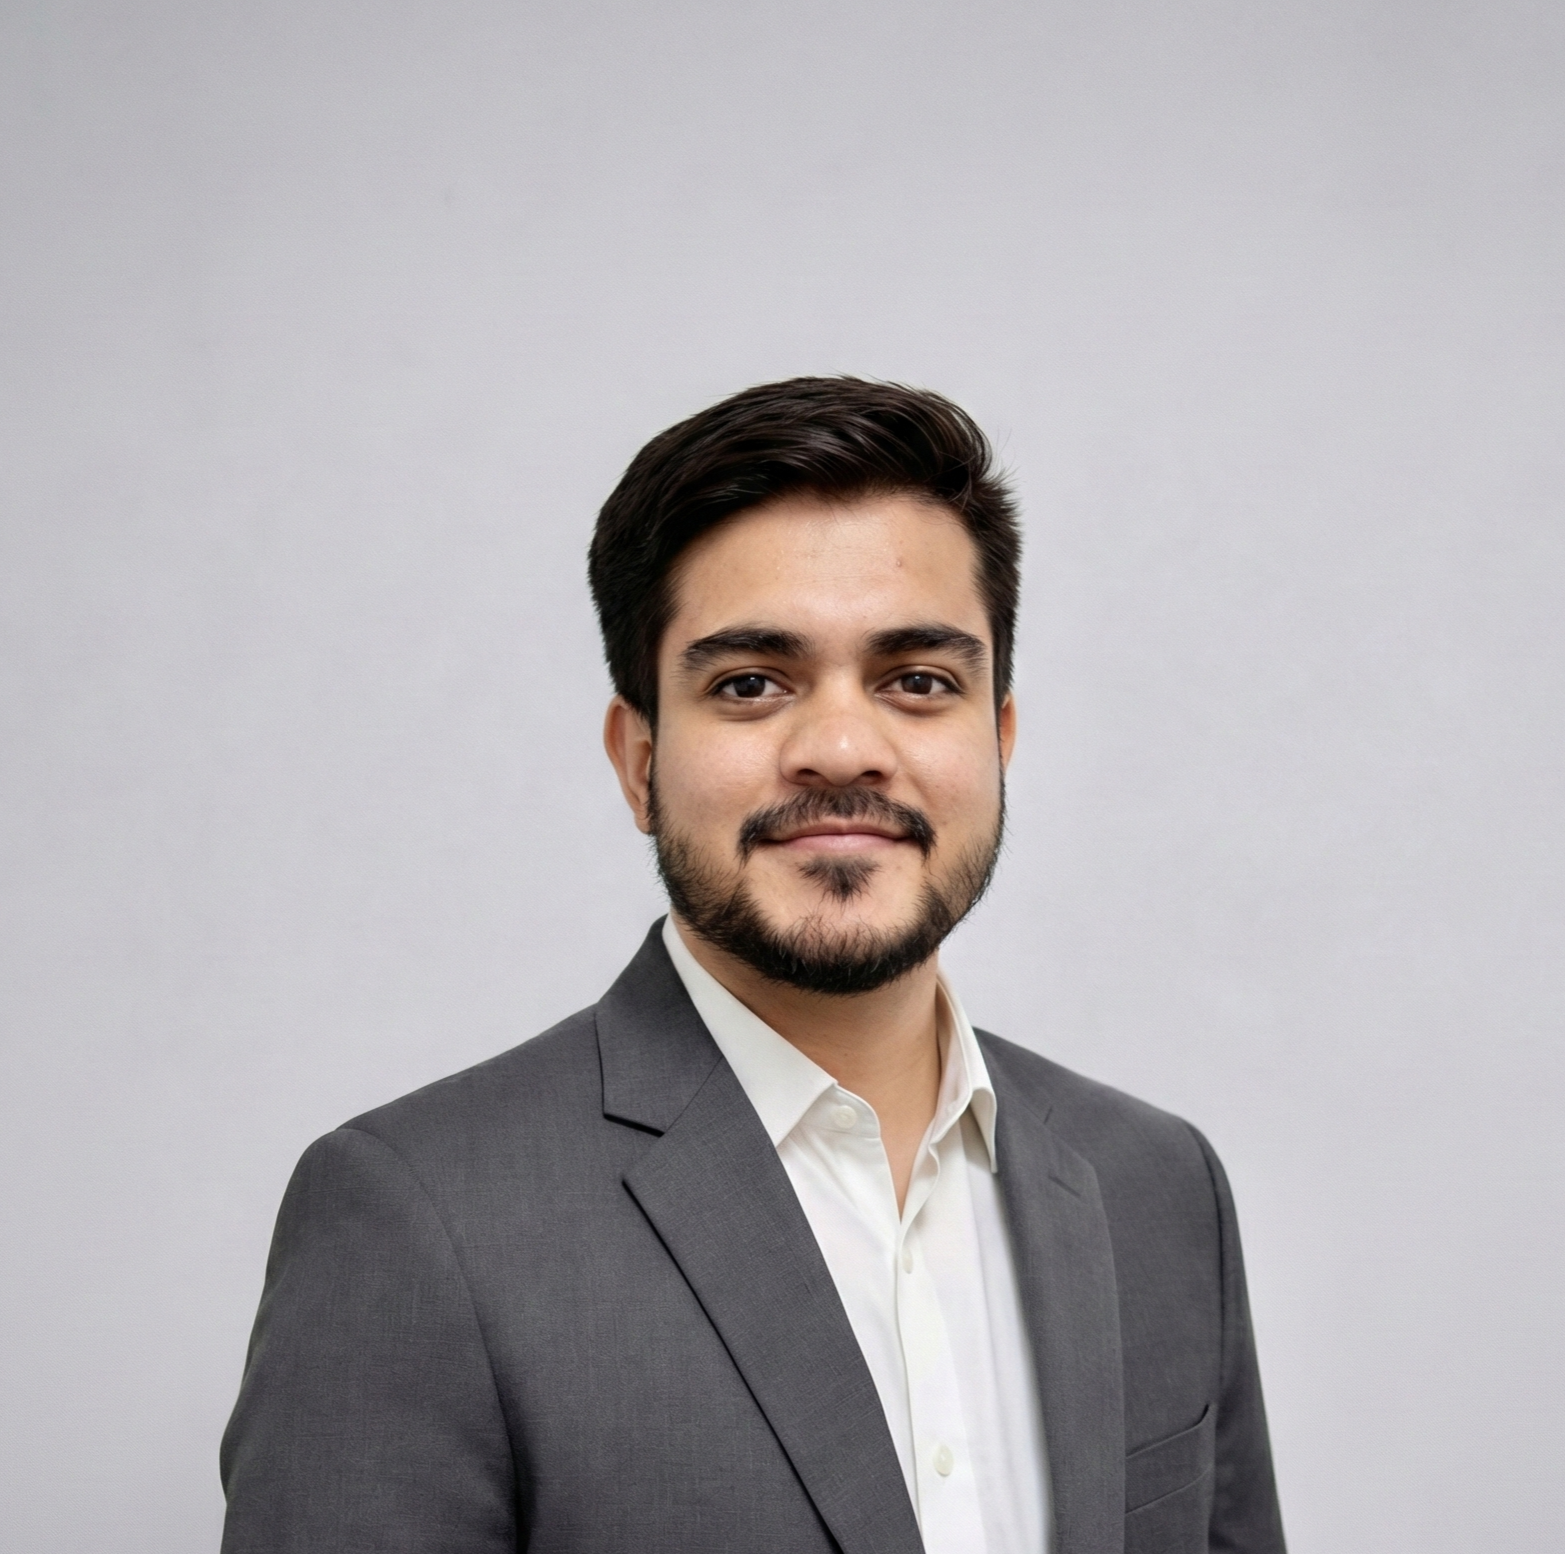
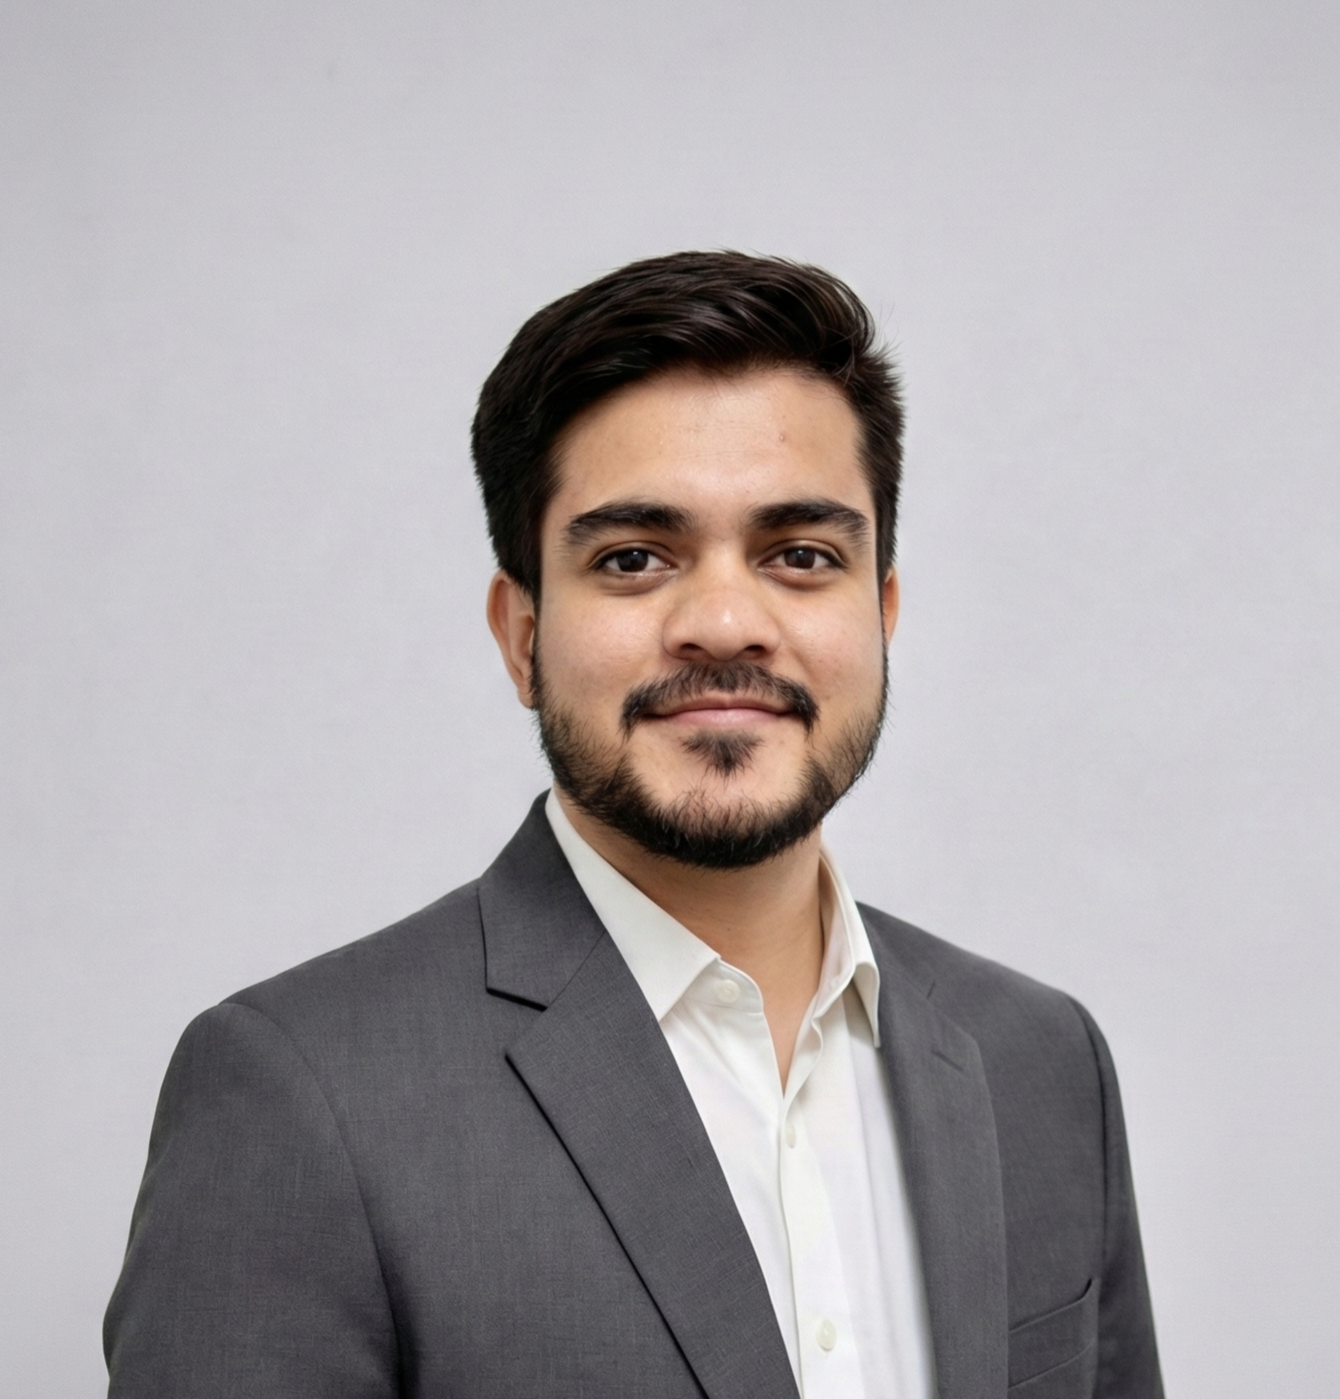
Changed piyush sir's photo

diff --git a/deptweb/src/components/home/faculty.jsx b/deptweb/src/components/home/faculty.jsx
@@ -21,7 +21,7 @@ export default function Faculty() {
         { id: 9, name: "Dr. Kiran", position: "Associate Professor", branch: "CSE(AI)", degree: "Ph.D.", university: "SRM University, Sonepat", image: "/cse-ai-assets/faculty/DR. KIRAN.JPG" },
         { id: 10, name: "Mr. Sahil Bhatia", position: "Assistant Professor & Program Head (First Year)", branch: "CSE(AI)", degree: "M.Tech.", university: "IIT - Jodhpur", image: "/cse-ai-assets/faculty/MR. SAHIL BHATIA.JPG" },
         { id: 11, name: "Mr. Mayank Lakhotia", position: "Assistant Professor & Program Head (First Year)", branch: "CSE(AI&ML)", degree: "M.Tech.", university: "NSUT, New Delhi", image: "/cse-ai-assets/images/Mayank-Lakhotia.png" },
-        { id: 12, name: "Mr. Piyush Agarwal", position: "Assistant Professor", branch: "CSE(AI)", degree: "M.Tech.", university: "DTU, New Delhi", image: "/cse-ai-assets/faculty/MR. PIYUSH AGARWAL.JPG" },
+        { id: 12, name: "Mr. Piyush Agarwal", position: "Assistant Professor", branch: "CSE(AI)", degree: "M.Tech.", university: "DTU, New Delhi", image: "/cse-ai-assets/faculty/MR. PIYUSH AGARWAL.jpeg" },
         { id: 13, name: "Dr. Richa Singh", position: "Assistant Professor", branch: "CSE(AI&ML)", degree: "Ph.D.", university: "Amity University, Lucknow", image: "/cse-ai-assets/faculty/DR. RICHA SINGH.JPG" },
         { id: 14, name: "Dr. Kavya Gupta", position: "Assistant Professor", branch: "CSE(AI&ML)", degree: "Ph.D.", university: "IGDTUW, Delhi", image: "/cse-ai-assets/faculty/DR. KAVYA GUPTA.JPG" },
         { id: 15, name: "Dr. Davesh Kumar Sharma", position: "Assistant Professor", branch: "CSE(AI&ML)", degree: "Ph.D.", university: "SRM Institute of Science and Technology", image: "/cse-ai-assets/faculty/DR. DAVESH KUMAR SHARMA.JPG" },

diff --git a/deptweb/src/app/faculty/page.js b/deptweb/src/app/faculty/page.js
@@ -58,7 +58,7 @@ export default function FacultyPage() {
         { id: 49, name: "Mr. Anuraag Raj Kamlesh Narayan", position: "Assistant Professor", branch: "CSE(AI&ML)", degree: "M.Tech.", university: "DTU, New Delhi", image: "/cse-ai-assets/faculty/MR. ANURAG RAJ .JPG" },
         { id: 50, name: "Ms. Anshika Rai", position: "Assistant Professor", branch: "CSE(AI&ML)", degree: "M.Tech.", university: "NSUT, New Delhi", image: "/cse-ai-assets/faculty/MS. ANSHIKA RAI.JPG" },
         { id: 51, name: "Mr. Akash Singh", position: "Assistant Professor", branch: "CSE(AI&ML)", degree: "M.Tech.", university: "NSUT, New Delhi", image: "/cse-ai-assets/faculty/MR. AKASH SINGH.JPG" },
-        { id: 52, name: "Mr. Piyush Agarwal", position: "Assistant Professor", branch: "CSE(AI)", degree: "M.Tech.", university: "DTU, New Delhi", image: "/cse-ai-assets/faculty/MR. PIYUSH AGARWAL.JPG" },
+        { id: 52, name: "Mr. Piyush Agarwal", position: "Assistant Professor", branch: "CSE(AI)", degree: "M.Tech.", university: "DTU, New Delhi", image: "/cse-ai-assets/faculty/MR. PIYUSH AGARWAL.jpeg" },
         { id: 53, name: "Mr. Atinder Pal Singh", position: "Assistant Professor", branch: "CSE(AI)", degree: "M.Tech.", university: "MNIT, Jaipur", image: "/cse-ai-assets/faculty/MR. ATINDER PAL.JPG" },
         { id: 54, name: "Ms. Mohini Verma", position: "Assistant Professor", branch: "CSE(AI)", degree: "M.Tech.", university: "IGDTUW, New Delhi", image: "/cse-ai-assets/faculty/MS. MOHINI.JPG" },
         { id: 55, name: "Ms. Himanshi Sharma", position: "Assistant Professor", branch: "CSE(AI&ML)", degree: "M.Tech.", university: "IGDTUW, Delhi", image: "/cse-ai-assets/faculty/MS. HIMANSHI SHARMA.JPG" },
